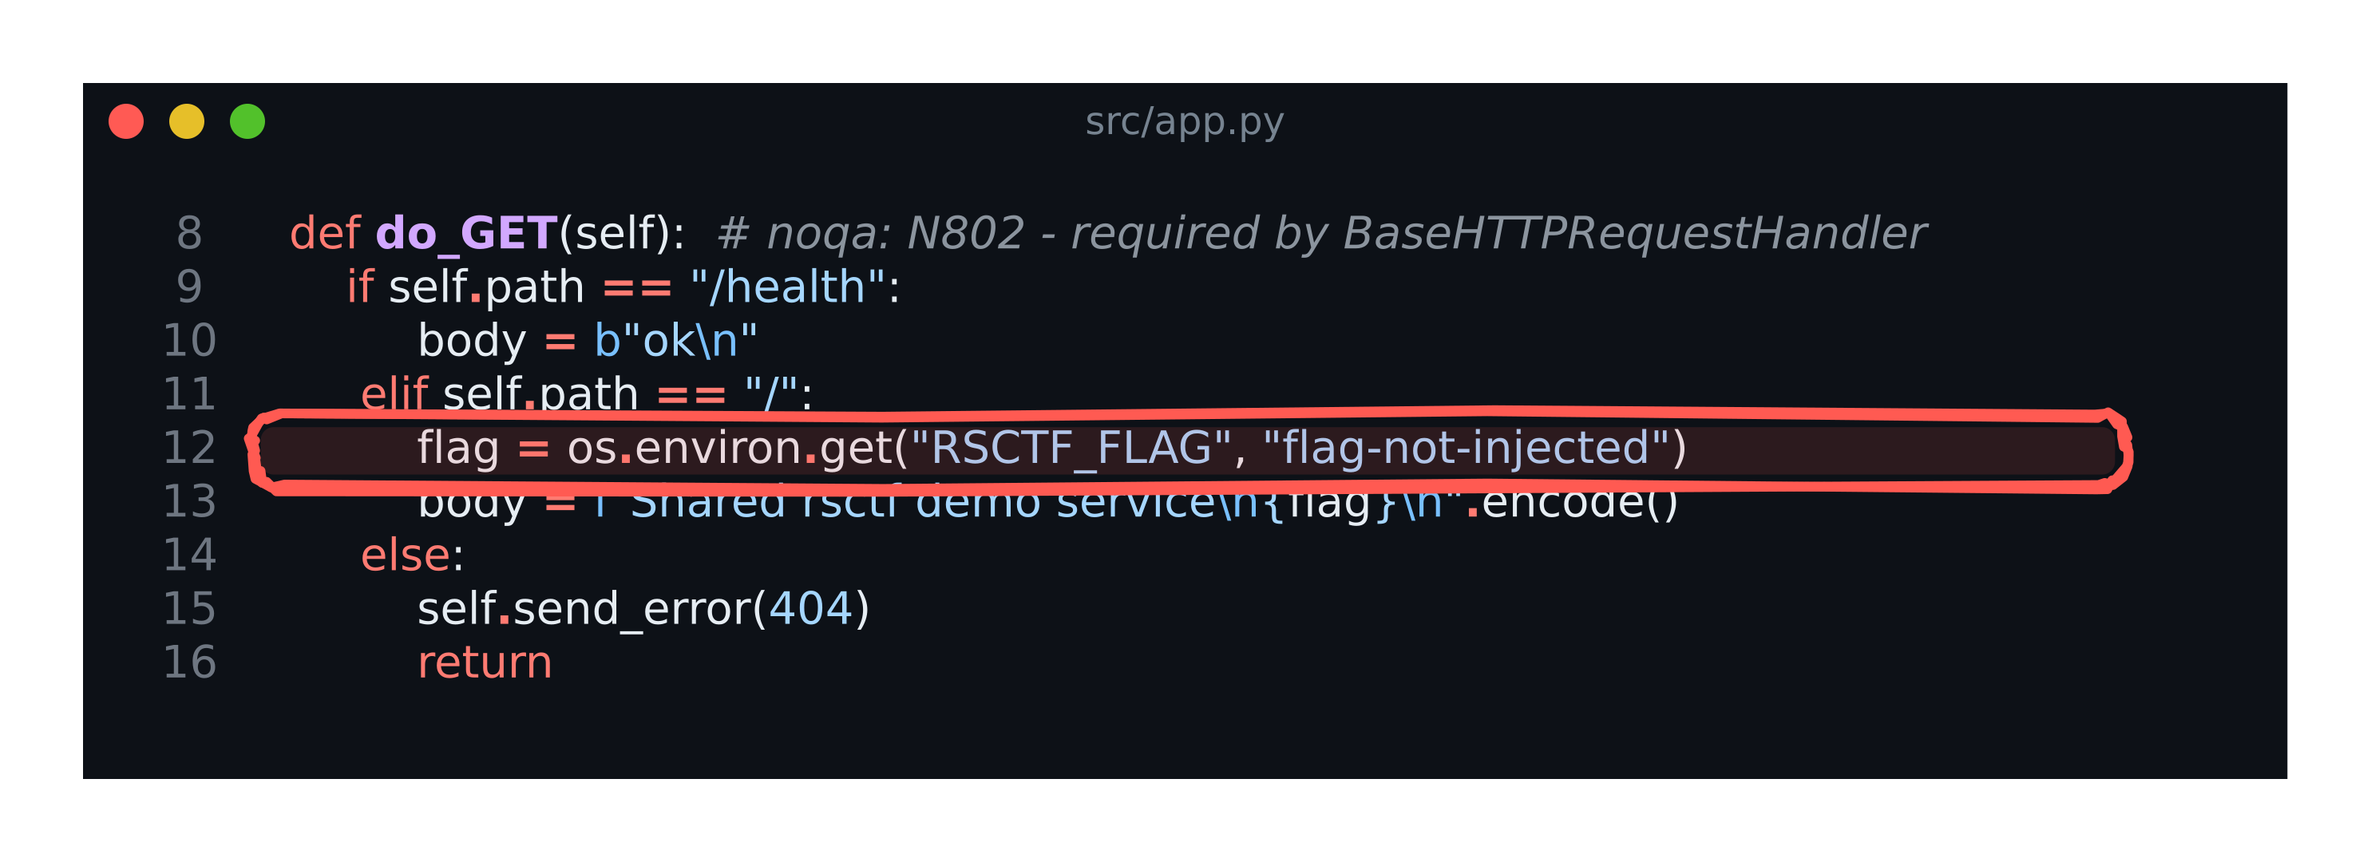
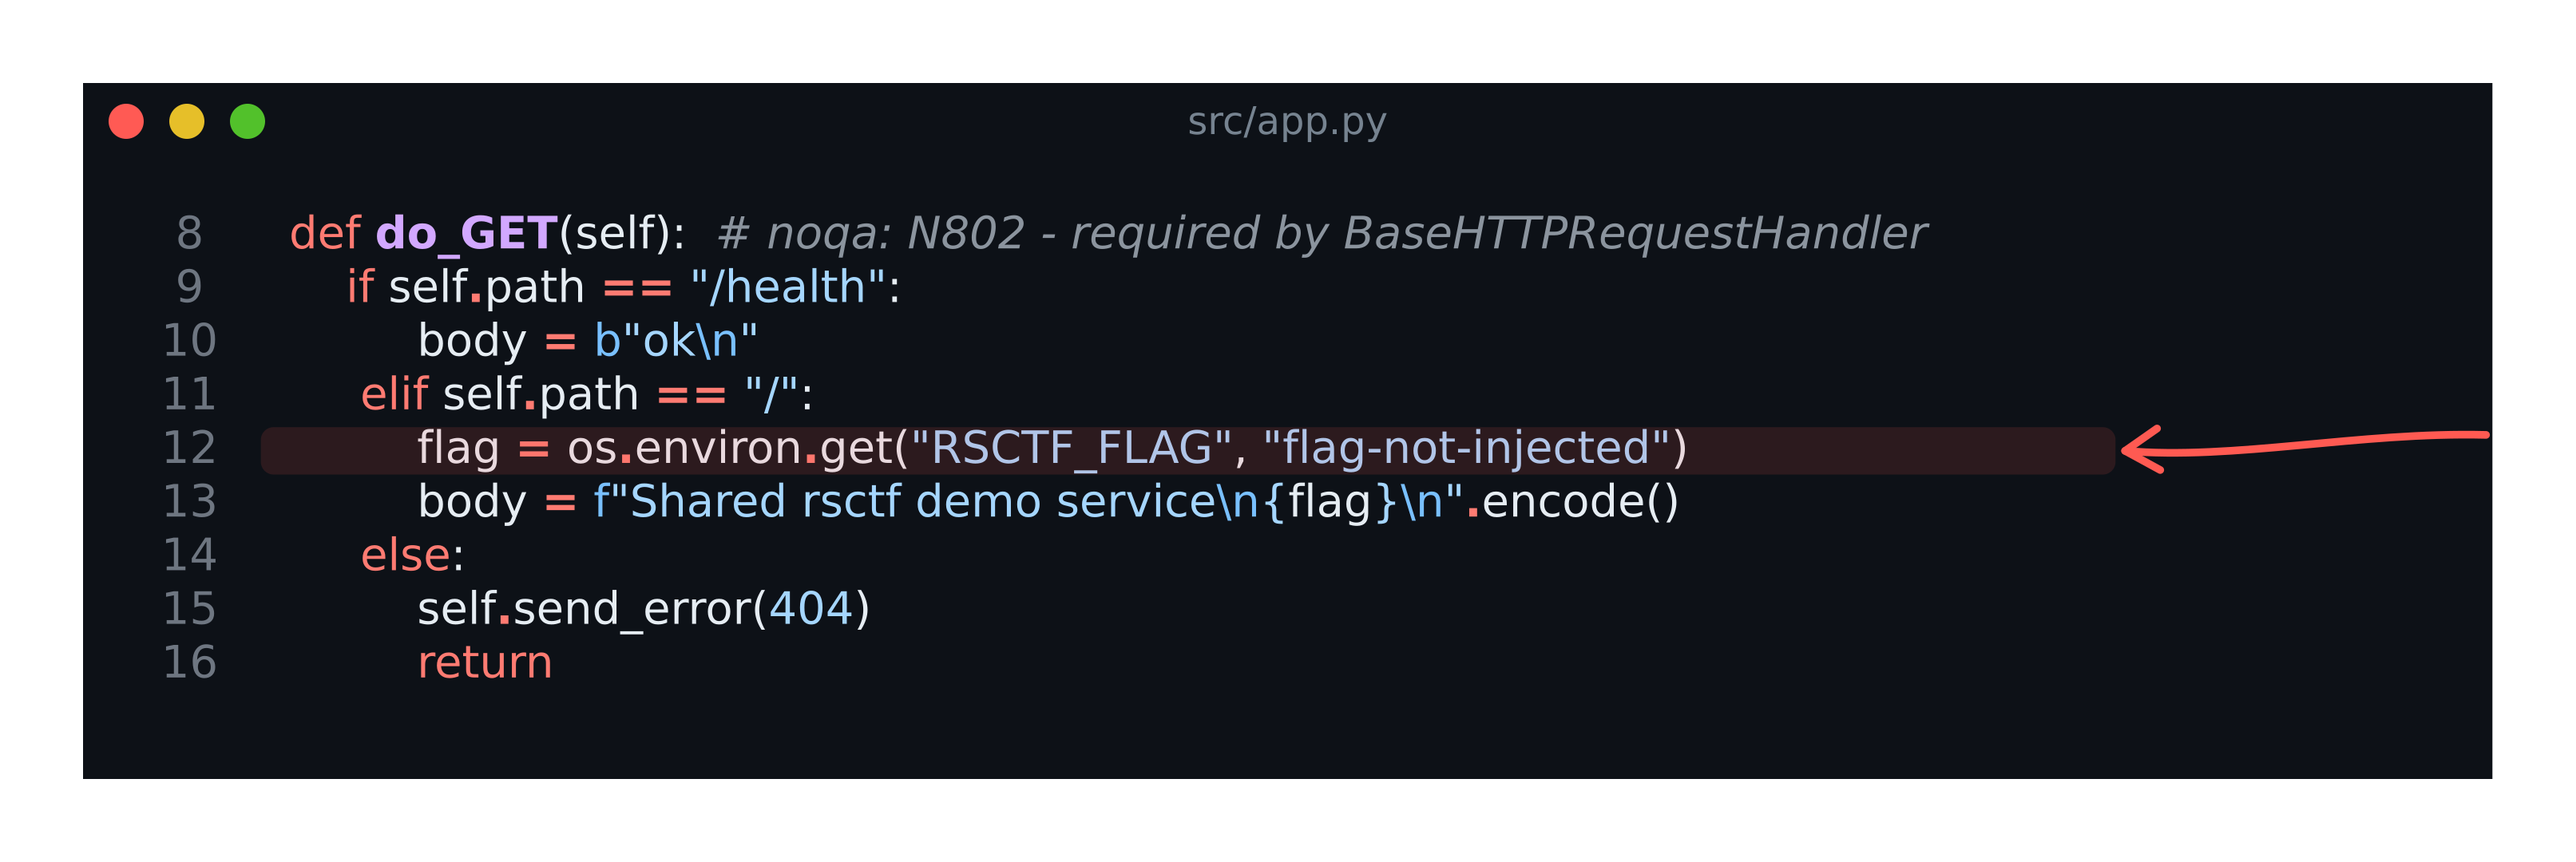
docs: prefer freezed arrow annotations

Changed region(s): [[0.062, 0.2444, 0.9912, 0.7944], [0.031, 0.0917, 0.1239, 0.1833], [0.4646, 0.1222, 0.5576, 0.1528]]

diff --git a/docs/solutions.md b/docs/solutions.md
@@ -109,15 +109,16 @@ freezed path/to/source.py \
   --theme github-dark \
   --padding 20 \
   --margin 26 \
-  --title 'path/to/source.py' \
-  --circle 'vulnerable_call(user_input)' \
+  --title 'player-visible/path/to/source.py' \
+  --arrow 'vulnerable_call(user_input)' \
   -o solution/assets/vuln-input-flow.png
 ```
 
-Use one `--circle` for one region and repeated `--mark` options for several related regions.
-Select code by quoted text when practical. An internal organizer writeup may show author
-source but must label it author-only. A player-facing publication may show only source the
-player receives or earns.
+Use one `--arrow` to point to one region and repeated `--mark` options for a numbered sequence
+of related regions. Select code by quoted text when practical, and keep the selection inside
+the range passed to `--lines`. An internal organizer writeup may show author source but must
+label it author-only. A player-facing publication may show only source the player receives or
+earns.
 
 Open every generated image at readable scale. Check clipping, line visibility, stale source,
 wrong identity, tokens, flags, production hosts, and unrelated personal data. Regenerate it

diff --git a/.agents/skills/rsctf-challenge-solution/references/screenshots-and-freezed.md b/.agents/skills/rsctf-challenge-solution/references/screenshots-and-freezed.md
@@ -19,9 +19,10 @@ the README instead.
 
 ## Annotated source with freezed
 
-`freezed` renders the real file with syntax highlighting and annotations. Use `--circle` for
-one vulnerable region and repeated `--mark` options for several related regions. Select code
-by quoted text when practical so the command survives harmless line movement.
+`freezed` renders the real file with syntax highlighting and annotations. Use `--arrow` to
+point to a vulnerable region and repeated `--mark` options for a numbered sequence of related
+regions. Select code by quoted text when practical so the command survives harmless line
+movement. The selected source must be inside the range passed to `--lines`.
 
 ```sh
 freezed path/to/source.py \
@@ -32,7 +33,7 @@ freezed path/to/source.py \
   --padding 20 \
   --margin 26 \
   --title 'player-visible/path/to/source.py' \
-  --circle 'vulnerable_call(user_input)' \
+  --arrow 'vulnerable_call(user_input)' \
   -o solution/assets/vuln-input-flow.png
 ```
 

diff --git a/challenges/Jeopardy/Web/static-flag-service/solution/README.md b/challenges/Jeopardy/Web/static-flag-service/solution/README.md
@@ -48,15 +48,15 @@ implementation but is not used as player discovery evidence.
 
 ![The root handler reads and returns RSCTF_FLAG](assets/vuln-flag-response.png)
 
-- PNG dimensions: `2970x1080`
[1 lines of base64/hex data omitted]
+- PNG dimensions: `3226x1080`
[1 lines of base64/hex data omitted]
 
 Reproduce it from the package root:
 
 ```sh
 freezed src/app.py --lines 8,17 --show-line-numbers --window --theme github-dark \
   --padding 20 --margin 26 --title 'src/app.py' \
-  --circle 'flag = os.environ.get("RSCTF_FLAG", "flag-not-injected")' \
+  --arrow 'flag = os.environ.get("RSCTF_FLAG", "flag-not-injected")' \
   -o solution/assets/vuln-flag-response.png
 ```
 

diff --git a/docs/templates/solution.md b/docs/templates/solution.md
@@ -65,8 +65,8 @@ record the capture or `freezed` command. For example:
 
 ```sh
 freezed path/to/source.py --lines 20,45 --show-line-numbers --window \
-  --theme github-dark --title 'path/to/source.py' \
-  --circle 'vulnerable_call(user_input)' \
+  --theme github-dark --title 'player-visible/path/to/source.py' \
+  --arrow 'vulnerable_call(user_input)' \
   -o solution/assets/vuln-input-flow.png
 ```
 
